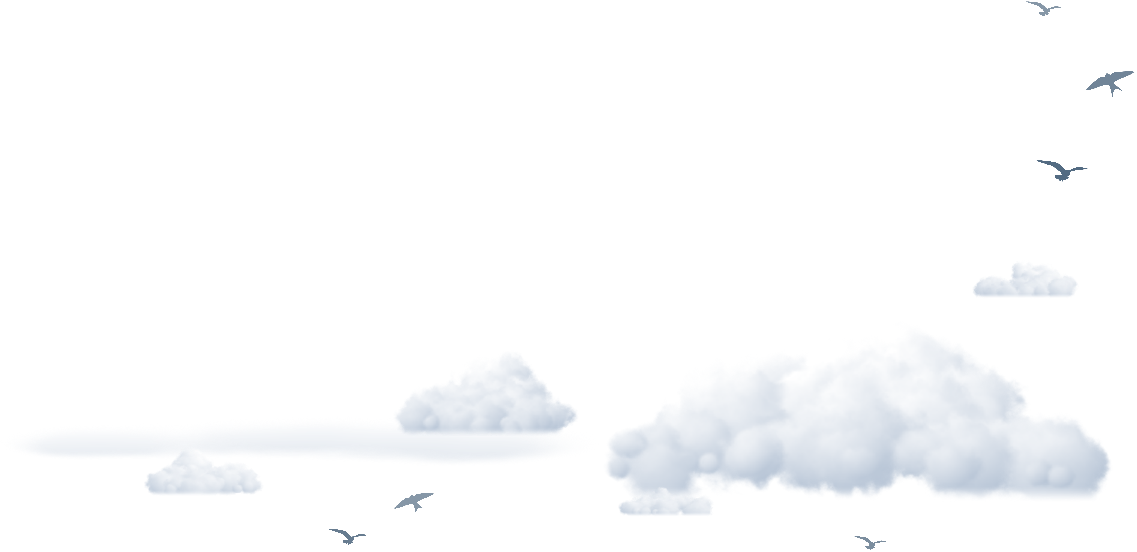
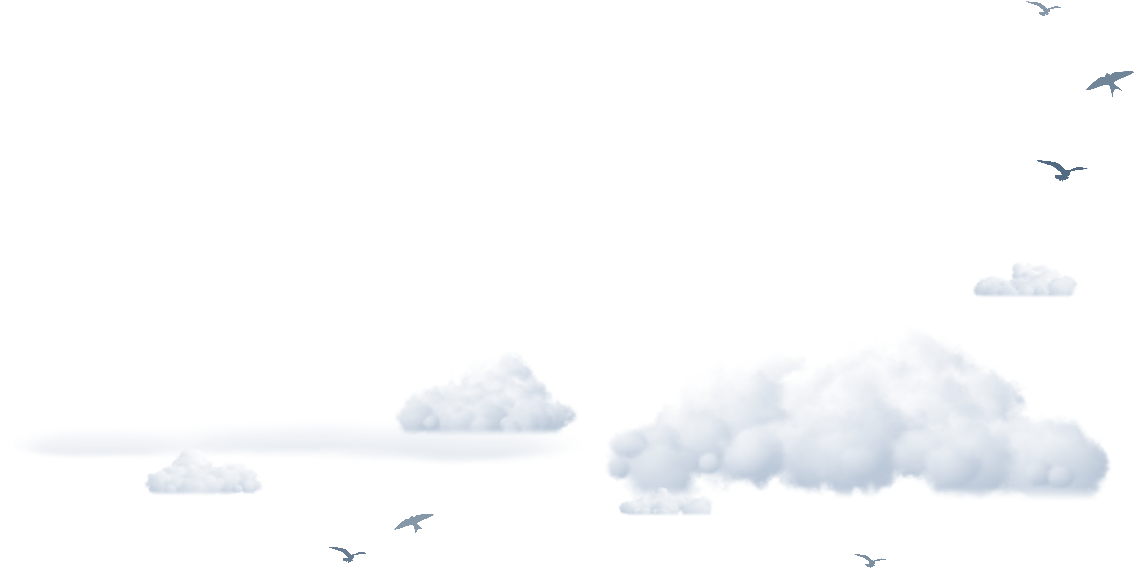
天空蓝主题窗口点缀：右下角积云带、散开的小云和薄层云整组往上挪一点，压在拐角上、底部刚好落在下边框线，旁边的飞鸟随之上移

diff --git a/dstools/qt/ornaments.py b/dstools/qt/ornaments.py
@@ -92,7 +92,7 @@ _SPRITES: dict[str, tuple[Sprite, ...]] = {
         Sprite("sky_spray_corner.png", 1, 0, -123, 118, 372),
         # 右下角：一道低矮的积云带压在拐角，几朵小积云沿下边框线往左散开，往左延一条薄层云，几只鸟沿右边框
         # 外侧往上飞、几只沿下边框外侧飞；左下角留白
-        Sprite("sky_bottom.png", 1, 1, -140.5, -61, 184),
+        Sprite("sky_bottom.png", 1, 1, -140.5, -73, 190),
     ),
     "twilight": (
         # 星夜蓝，排版脚本 twilight/compose_twilight.py。沿上边框向右、沿左边框向下各一道银河光带，
